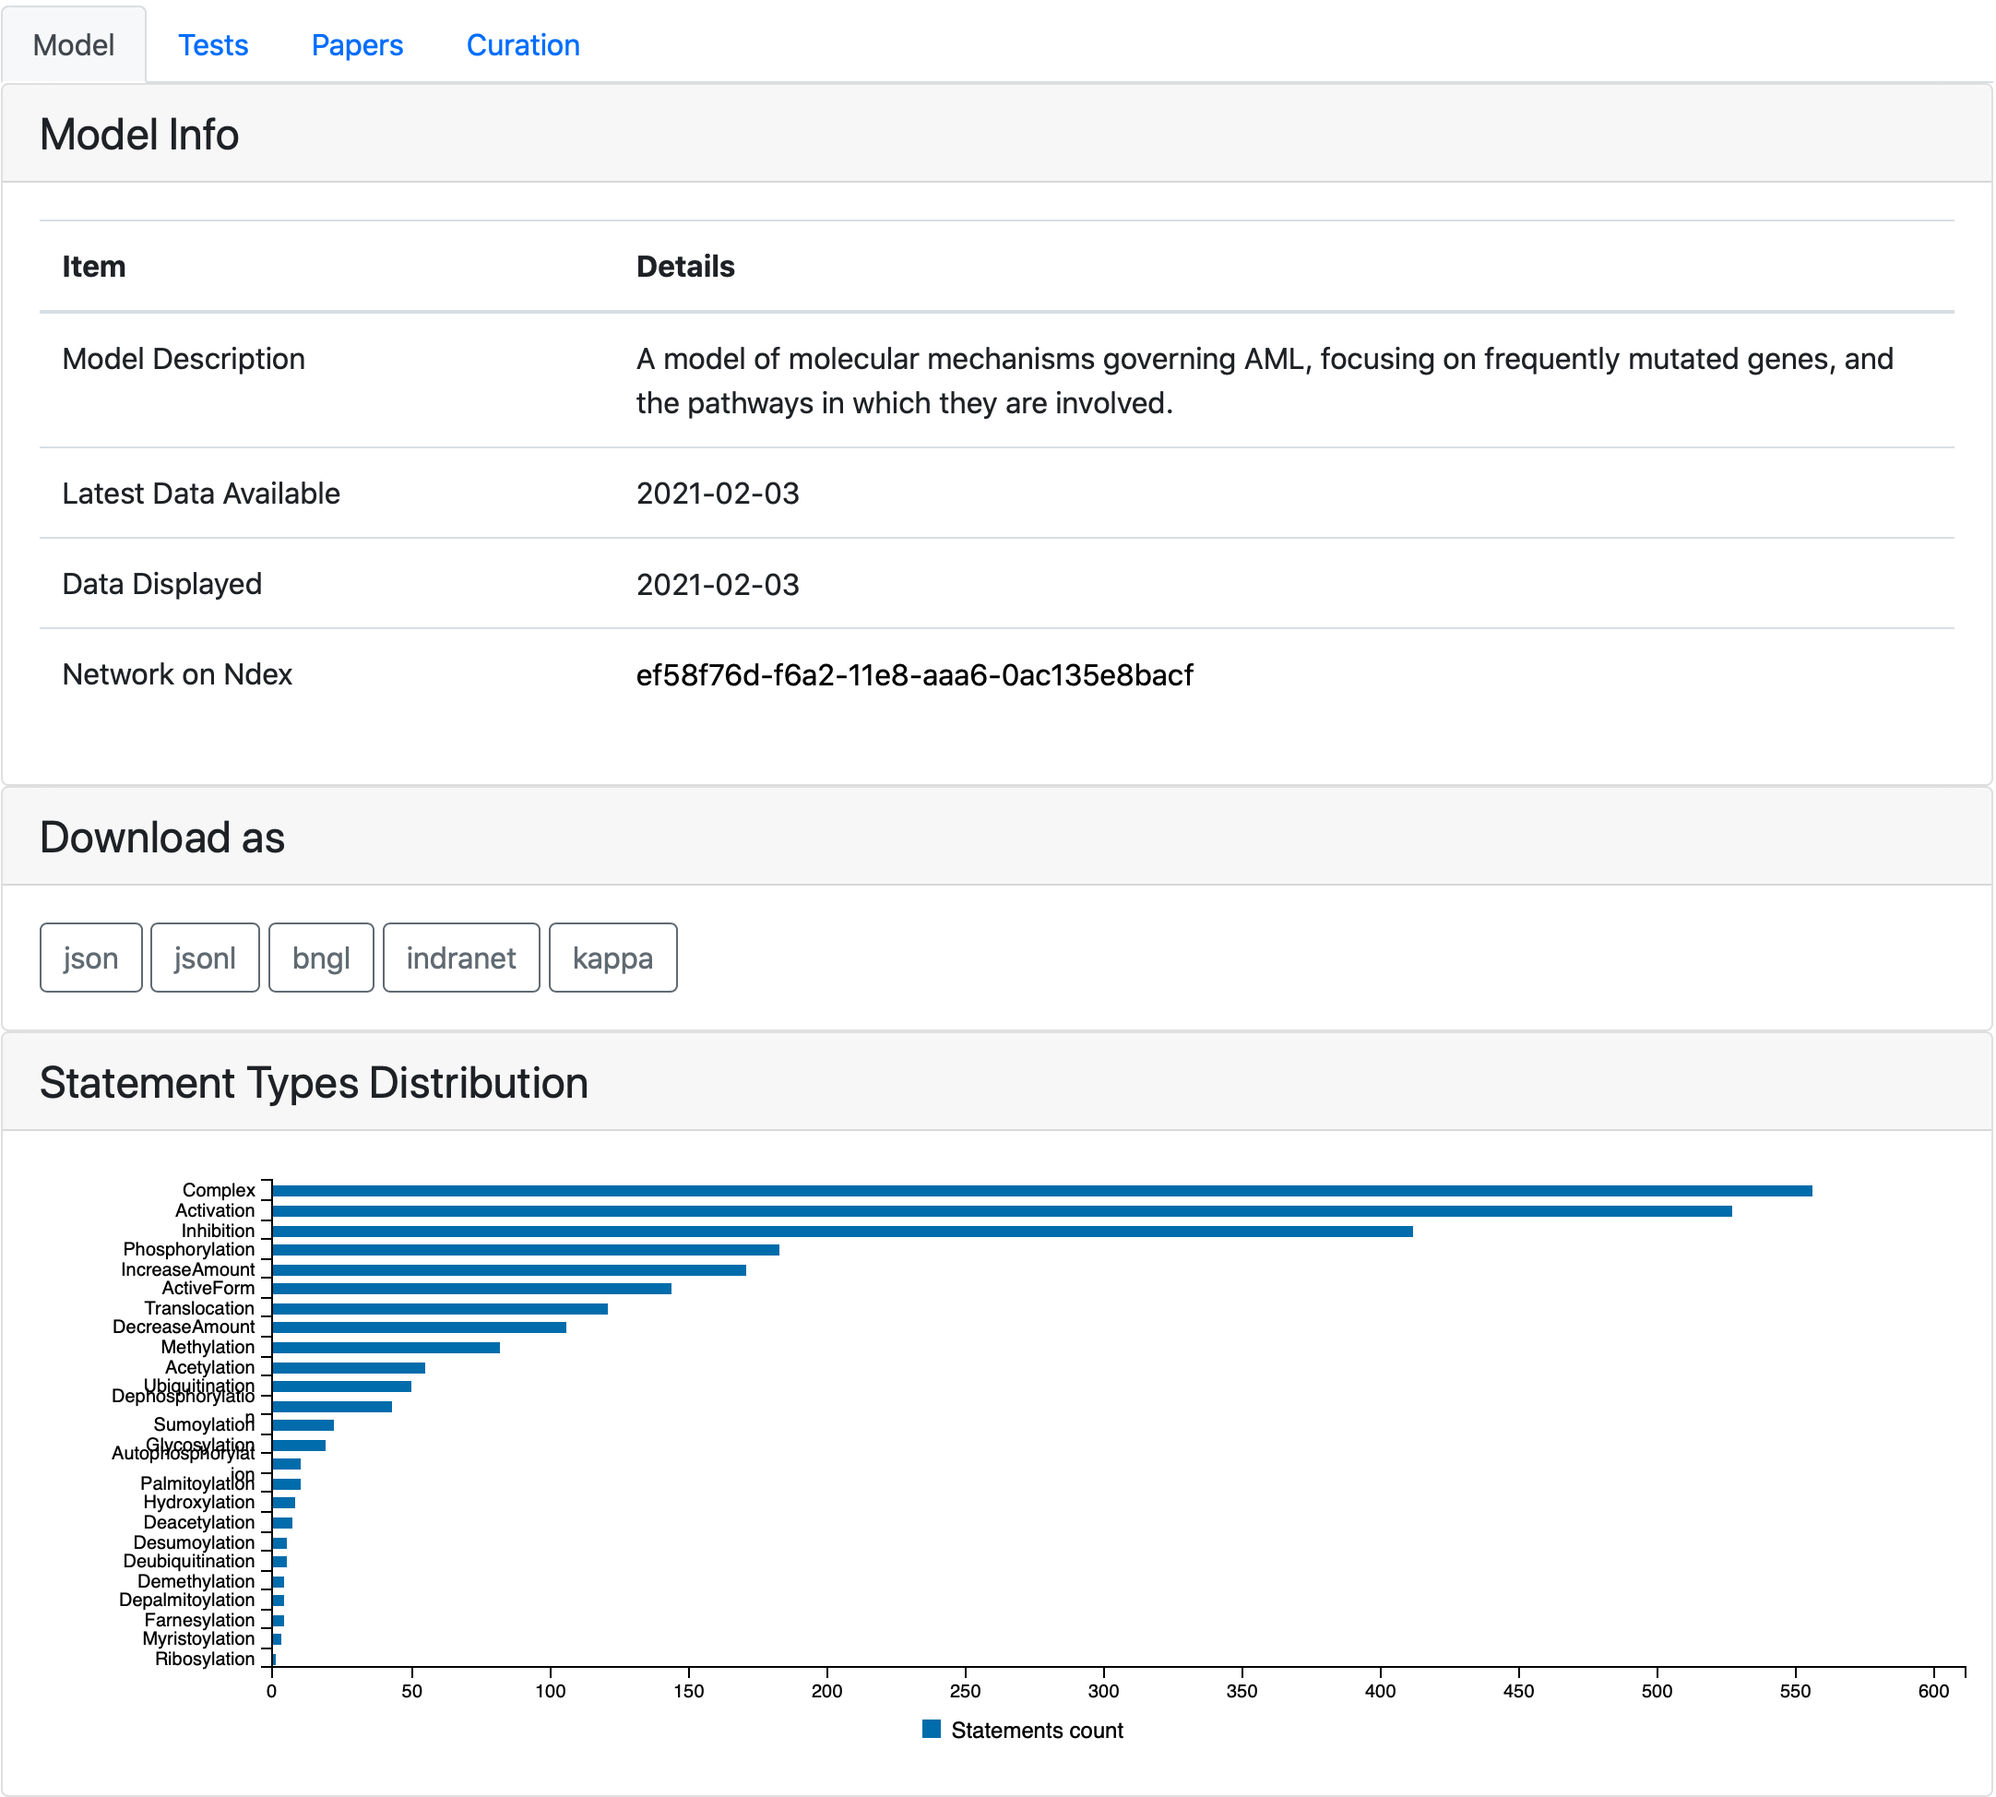
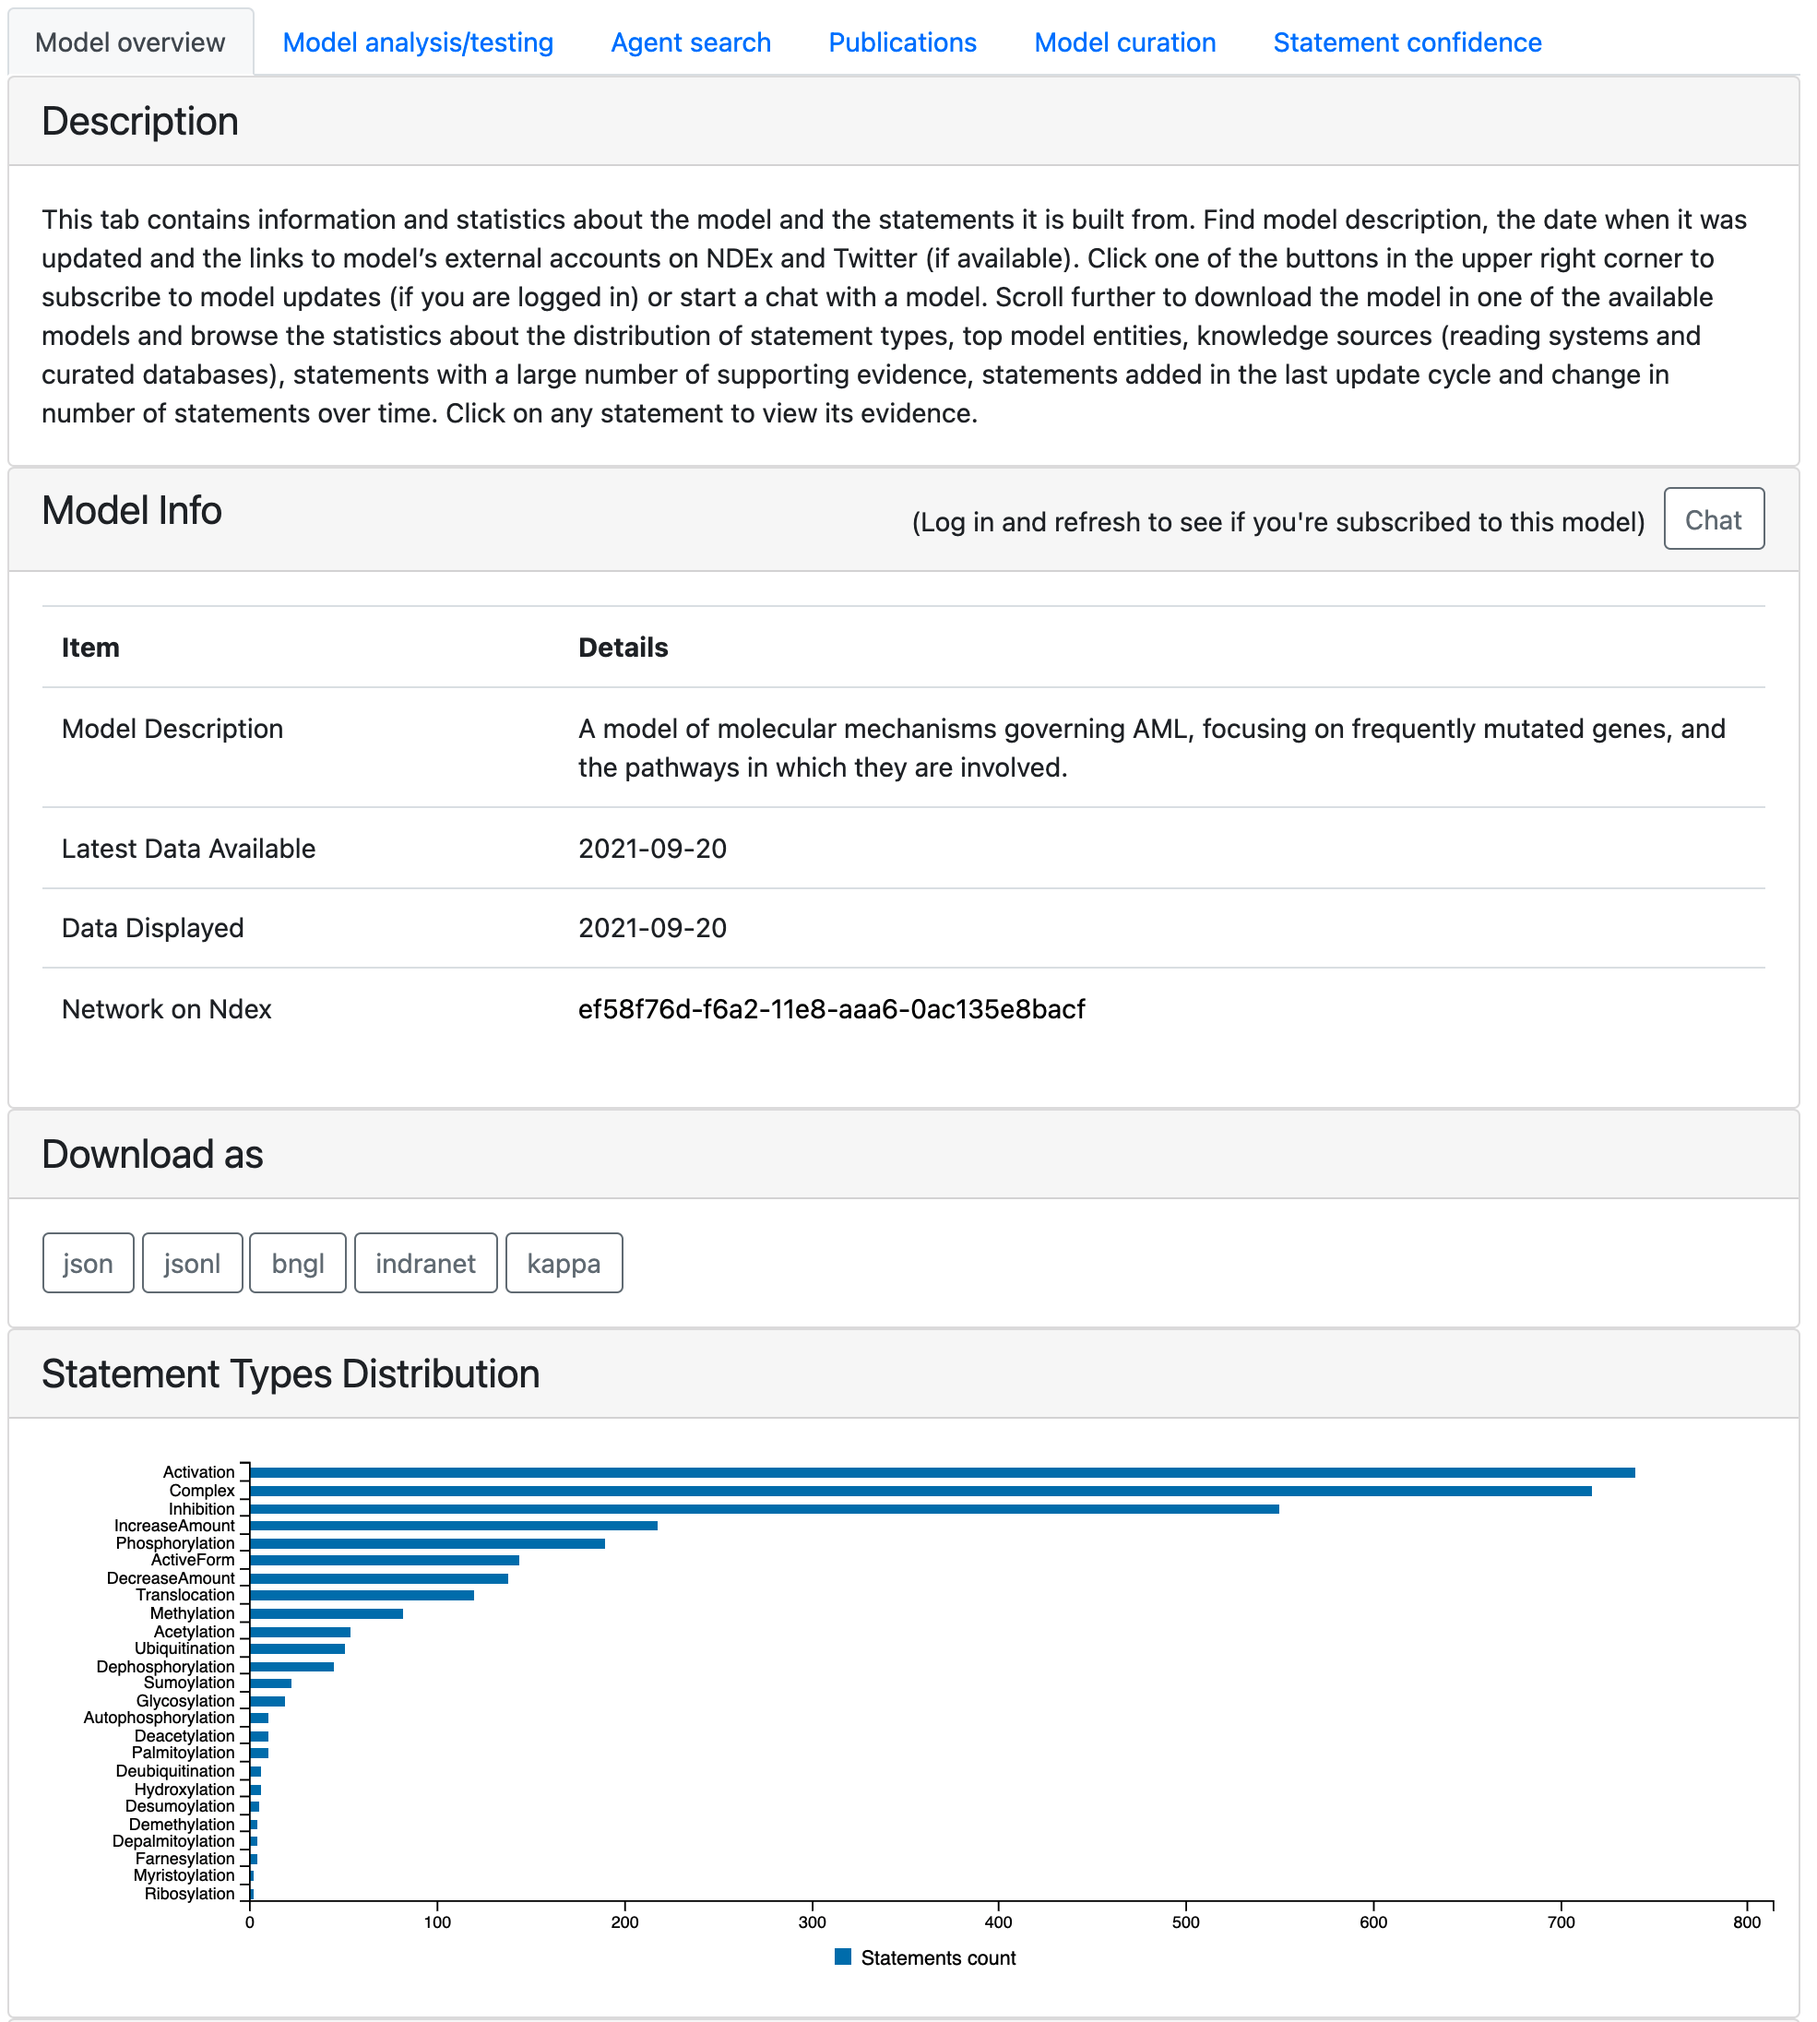
Update model page docs

diff --git a/doc/dashboard/models_page.rst b/doc/dashboard/models_page.rst
@@ -1,15 +1,32 @@
 EMMAA Models Page
 =================
 
-The models page contains detailed information about the selected model in four
-tabs: *Model*, *Tests*, *Papers*, and *Curation*. At the top of the page the
+The models page contains detailed information about the selected model in the
+following tabs:
+
+- :ref:`dashboard_model_overview_tab`
+- :ref:`dashboard_models_tests_tab`
+- :ref:`dashboard_agent_search_tab`
+- :ref:`dashboard_models_papers_tab`
+- :ref:`dashboard_models_curation_tab`
+- :ref:`dashboard_belief_tab`
+
+Each tab has a section describing its content. At the top of the page the
 selected model is shown in a drop-down menu. Another model can also be selected
 and loaded from the menu.
+
+.. figure:: ../_static/images/all_tabs.png
+  :align: center
+  :figwidth: 100 %
+
+  *Avaliable tabs*
 
 Link to statement details
 -------------------------
 
-To see further details regarding a mechanism, links to a separate page are
+Multiple tabs display the model statements descibing relevant biological
+mechanisms. To see further details regarding a mechanism, browse its
+evidence from literature and databases and submit curations, links to a separate page are
 generated for all statements where possible. To read more about that page, see:
 :ref:`statement_evidence`.
 
@@ -19,11 +36,14 @@ generated for all statements where possible. To read more about that page, see:
 
   *Link to statement evidence page*
 
-Model Tab
----------
+.. _dashboard_model_overview_tab:
 
-The model tab contains model info with the model description, the date the 
-model was last updated and the date when the displayed state of the model was 
+Model Overview Tab
+------------------
+
+This tab contains information and statistics about the model and the statements
+it is built from. At the top of the tab a user can find model description,
+the date when it was last updated and the date when the displayed state of the model was 
 generated. By default the latest available state of the model is displayed but 
 the user has an option to explore earlier states by clicking on an earlier time
 point on any of the time plots across the tabs
@@ -39,7 +59,9 @@ distribution of knowledge sources (reading systems and databases) of model
 statements and the statements with the most support from various knowledge bases.
 The table with most supported statements also has a button "All statements"
 clicking on which a user can be redirected to a page showing all statements in
-the model: :ref:`all_statements`.
+the model: :ref:`all_statements`. It is also possible to get redirected to
+all statements page by clicking on any statement type in "Statement Types
+Distribution" plot (the statements will be filtered to this type in this case).
 Further, the page shows how the number of statements in the model has evolved
 over time, and which statements were added to the model during the most recent
 update.
@@ -52,22 +74,27 @@ update.
 
 .. _dashboard_models_tests_tab:
 
-Tests Tab
----------
+Model Analysis/Testing Tab
+--------------------------
 
-At the top of the tests tab, a drop down menu displays which test corpus was
+The model analysis/testing tab contains information about the results of using
+the model on a selected “test” corpus. Test corpora consist of Statements
+representing observations. These can either be considered properties that the
+model is expected to satisfy (model validation or testing) or unexplained data
+that model analysis is used to explain (model analysis). At the top of the
+model analysis/testing tab, a drop down menu displays which test corpus was
 used for the currently displayed test results. Clicking on the drop down menu
 will display all available test corpora for the current model. Clicking
 "Load Test Results" will load the test results for the selected test corpus.
 
-.. figure:: ../_static/images/test_corpus_selection_cropped.png
+.. figure:: ../_static/images/test_corpus_selection.png
   :align: center
-  :figwidth: 100 %
+  :figwidth: 75 %
 
   *The results from different test corpora can be loaded. Here "Rasmodel Tests",
   "Skcm tests", "Rasmachine Tests", and "Large Corpus Tests" are available.*
 
-The tests tab contains two related plots: one showing the evolution over time
+The analysis/testing tab contains two related plots: one showing the evolution over time
 of the percentage of applicable tests that passed, and another showing the
 absolute number of tests that were applied to the model and the number of tests
 that passed in each of supported model types. For the first few months of the
@@ -119,13 +146,56 @@ status, linking to detailed test results page.
   *Part of the list showing all applied tests with a status indicator for
   passed/failed*
 
+.. _dashboard_agent_search_tab:
+
+Agent Search Tab
+----------------
+The Agent Search tab allows users to view the statistics about any individual
+agent (for instance, a protein, small molecule, or phenotype) in the model.
+To initiate the search, a user needs to type the name of the entity of interest
+(or select one from suggested options) and click "Generate agent stats" button.
+The page will be reloaded with the statistics about this agent.
+
+.. figure:: ../_static/images/agent_selection.png
+  :align: center
+  :figwidth: 75 %
+
+  *Suggestions for the partially typed agent name*
+
+The newly generated page contains the agent description and links to external
+ontologies as well as the relevant sections of other tabs with the focus on
+selected agent. Similarly to model overview tab, it displays the distribution
+of statement types, knowledge sources and most supported statements but only
+statements containing the selected agent are used to generate this statistics.
+The tab also shows top interactors of the entity in the model and publications
+from which the statements containing it were extracted.
+
+.. figure:: ../_static/images/agent_stats.png
+  :align: center
+  :figwidth: 75 %
+
+  *Part of the page generated for BRAF*
+
+Similarly to model analysis tab it contains the results of testing the model
+against a given test corpus. It is possible to select a different corpus to
+reload the results. There are two different aspects displayed here:
+1) the observations ("tests") that contain the agent of interest and their
+explanations
+2) explanations (paths) containing the agent of interest.
+
+.. figure:: ../_static/images/agent_tests.png
+  :align: center
+  :figwidth: 100 %
+
+  *Tests and paths containing BRAF*
+
 .. _dashboard_models_papers_tab:
 
-Papers Tab
-----------
+Publications Tab
+----------------
 
-The Papers tab shows statistics for both processed papers and papers that support
-assembled model statements. At the top of the Papers tab the time series plot
+The Publications tab shows statistics for both processed papers and papers that support
+assembled model statements. At the top of the Publications tab the time series plot
 shows the changes in the counts of both paper groups over time.
 
 .. figure:: ../_static/images/papers_over_time.png
@@ -155,10 +225,10 @@ original publication as an external resource.
 
 .. _dashboard_models_curation_tab:
 
-Curation Tab
-------------
+Model Curation Tab
+------------------
 
-The Curation tab summarizes statistics related to curations for statements
+The Model Curation tab summarizes statistics related to curations for statements
 that are part of the model. At the top of the tab two barplots
 show the counts of evidences and assembled statements curated by individual
 curators.  
@@ -184,6 +254,22 @@ Finally, the number of curated statements and evidences over time is shown.
   :figwidth: 100 %
 
   *Curations over time*
+
+.. _dashboard_belief_tab:
+
+Statement Confidence Tab
+------------------------
+
+Each statement in the model has an associated belief which represents the
+confidence level that the statement is correct. This tab shows the distribution
+of beliefs among statements in the model and allows users to select a belief
+range to view the statements within it.
+
+.. figure:: ../_static/images/belief_tab.png
+  :align: center
+  :figwidth: 100 %
+
+  *Statement Confidence tab*
 
 .. _dashboard_models_load_previous:
 
